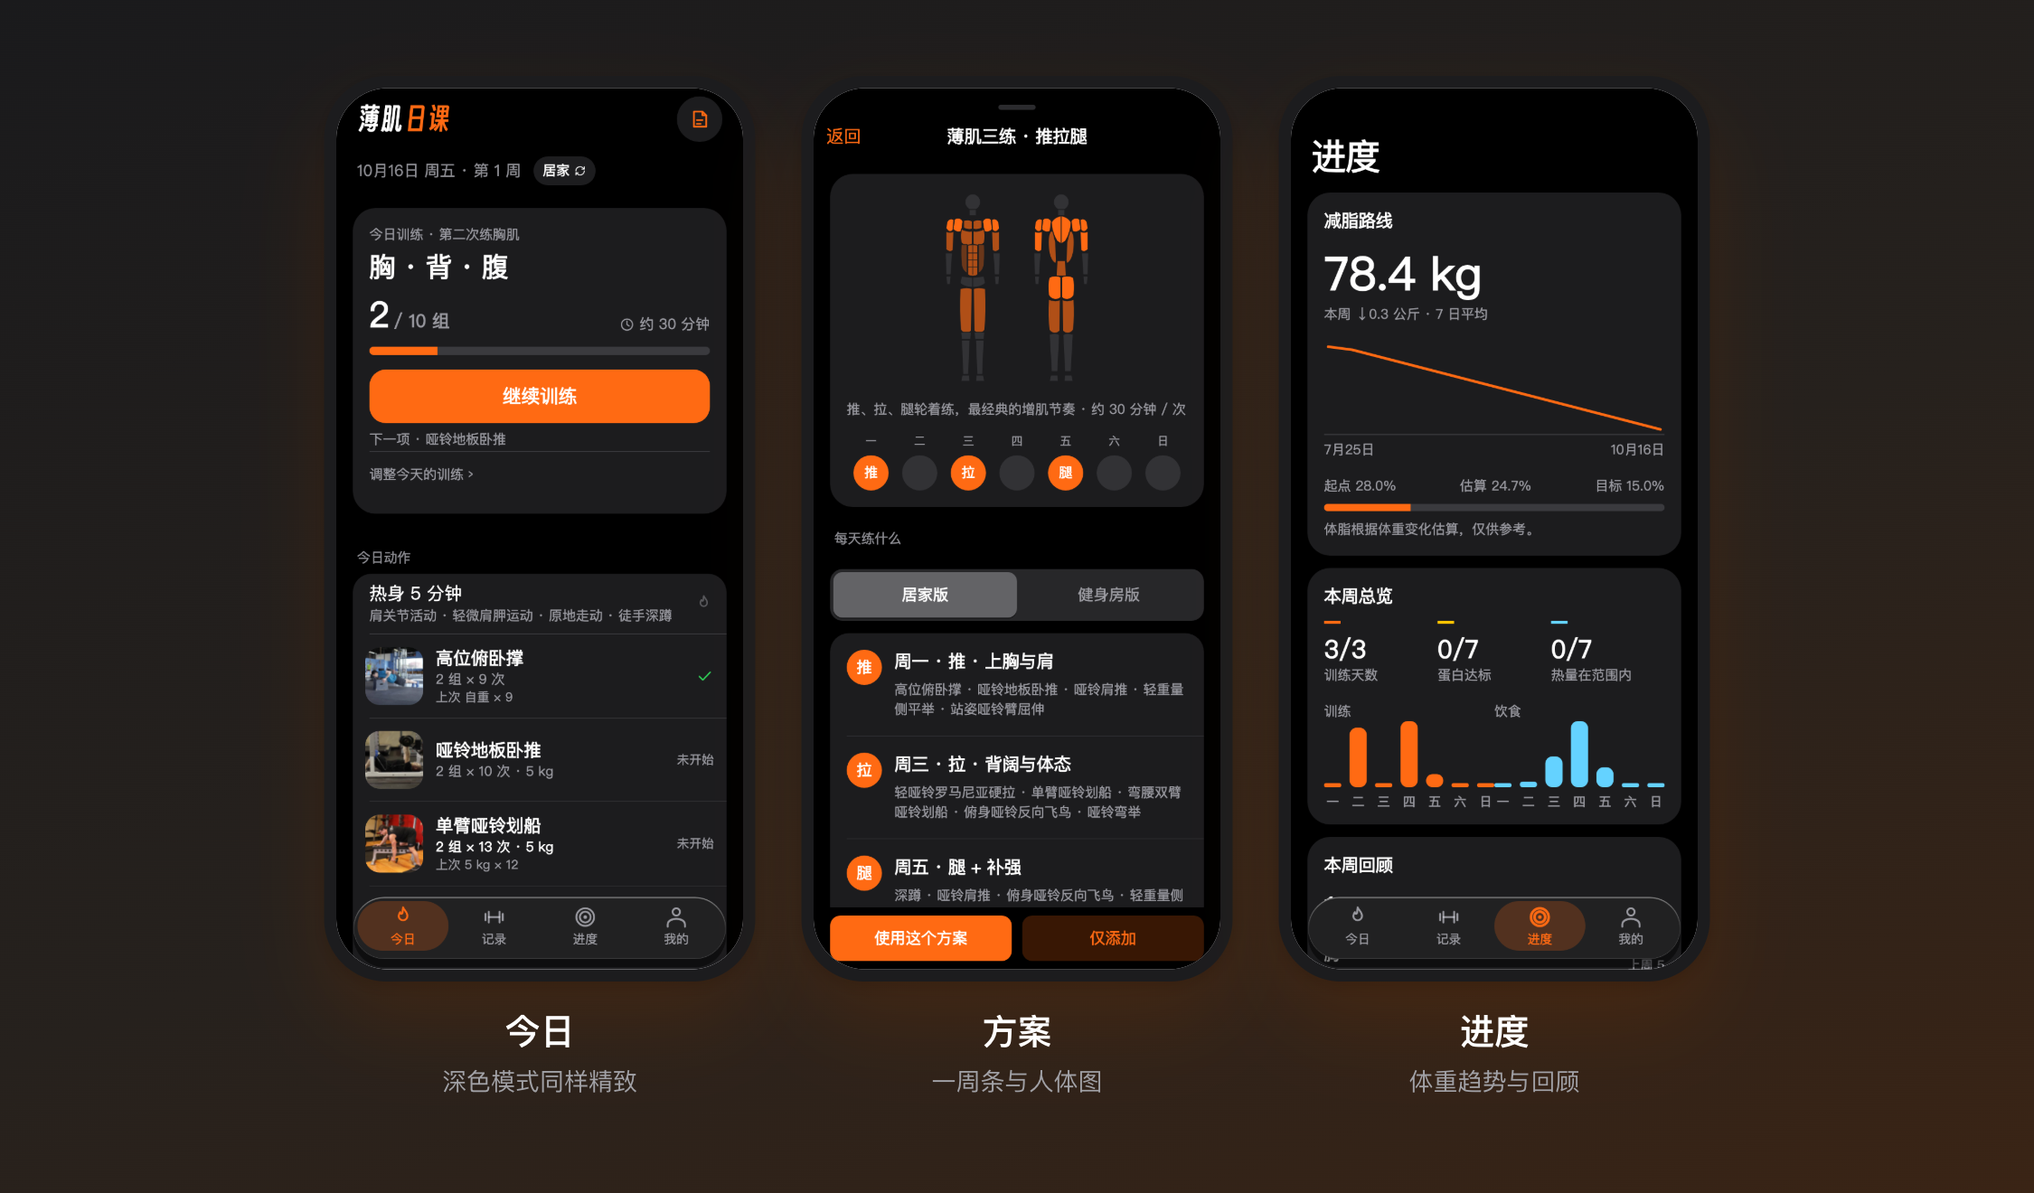
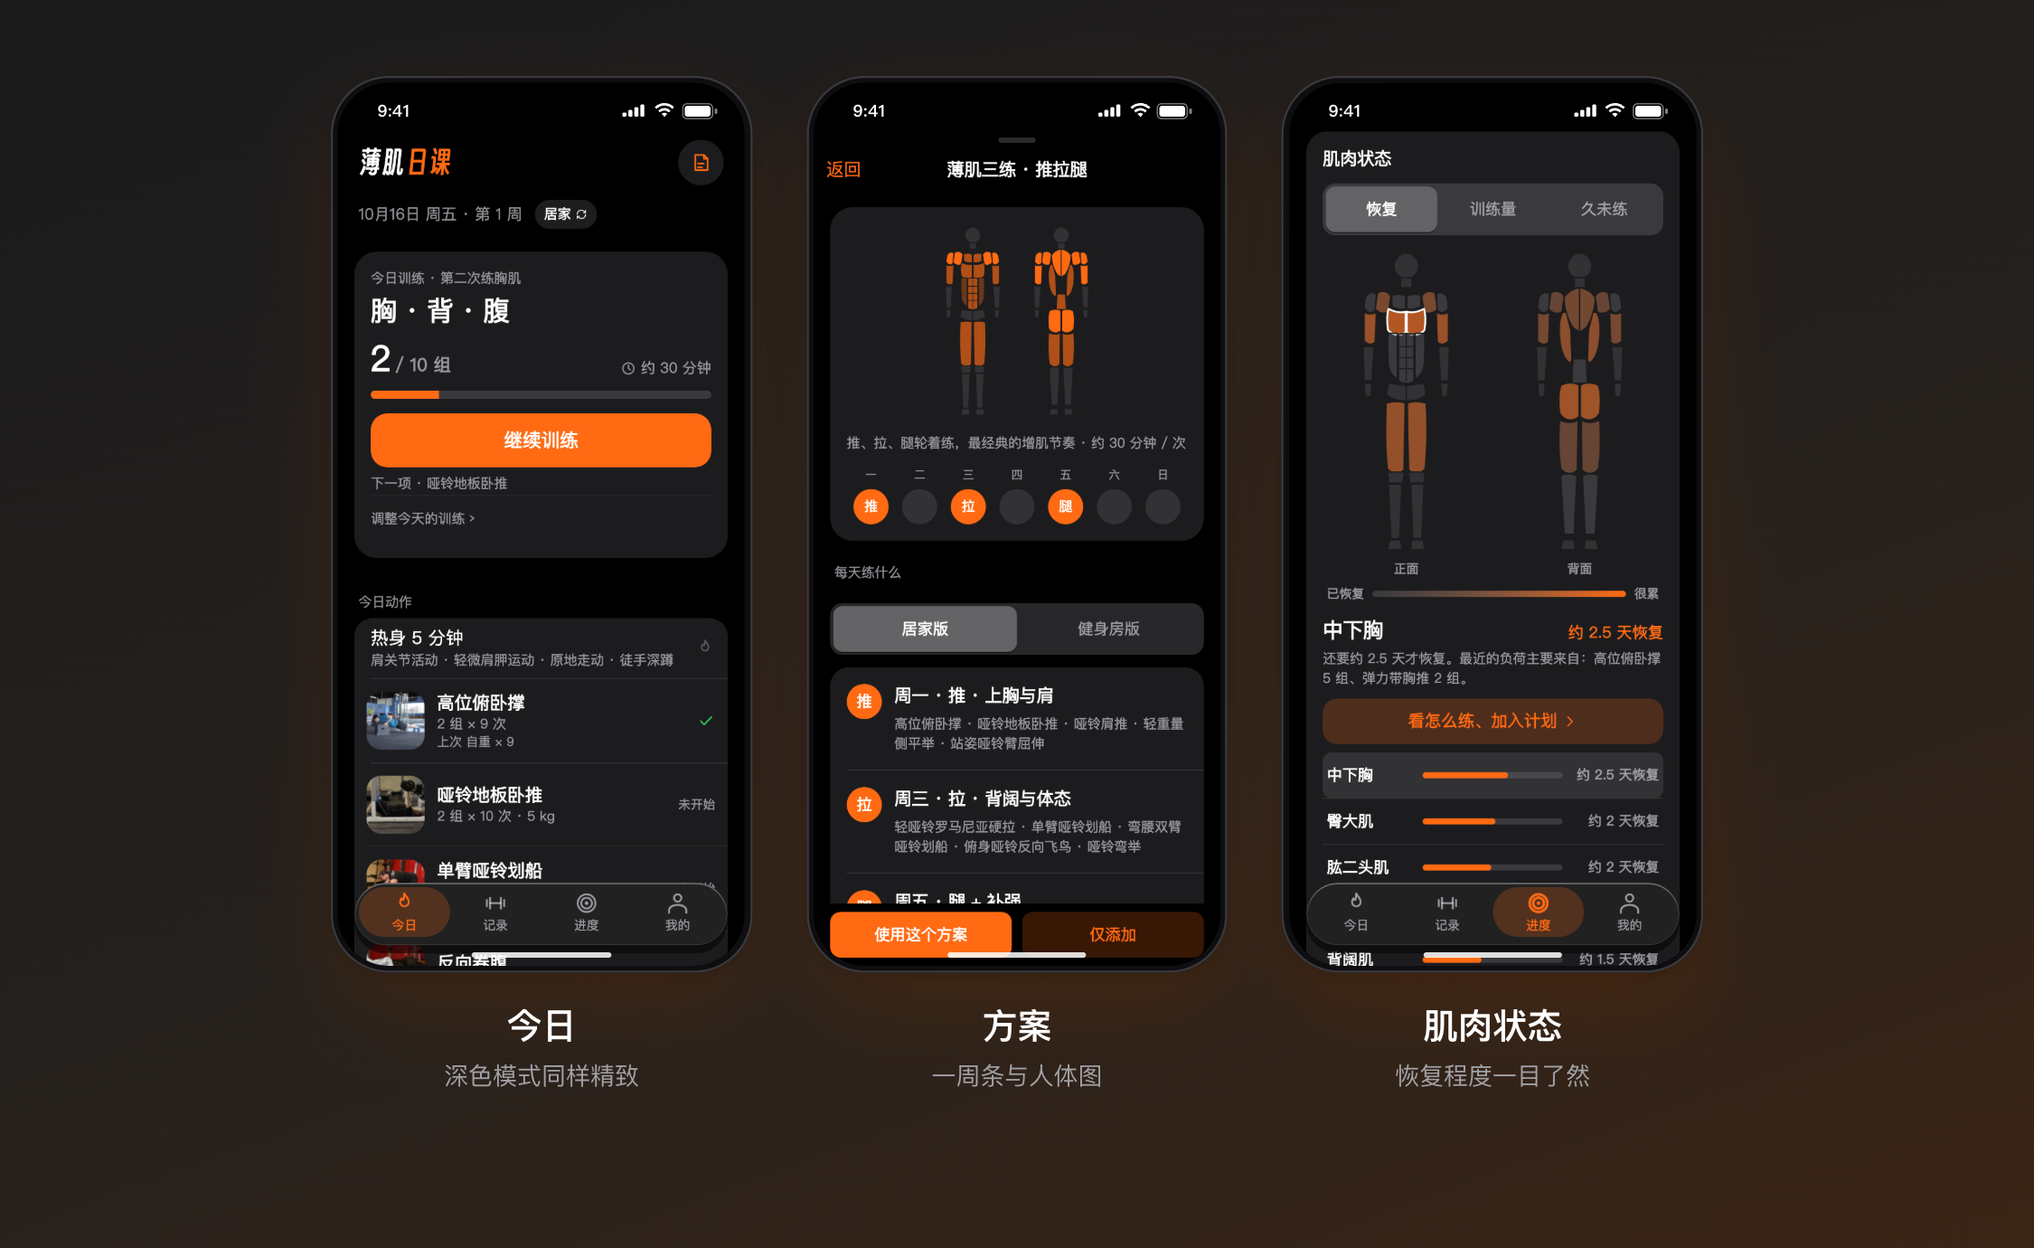
README 展示图：模拟真机安全区与状态栏，修复圆角裁切
- 测试框架新增 LEANDAILY_SAFE_AREA：出图时模拟顶部状态栏和底部手势条安全区
- 展示图用细边框 + 状态栏 + 底部横条，界面内容不再贴边被圆角裁掉；半屏弹层不再带被切开的灰条
- 新增进度页“肌肉状态”整页场景；字体改用苹方-简（单独抽出）避免缺字
- 记录重新出图的完整流程

diff --git a/tool/readme_shots/readme_shots_test.dart b/tool/readme_shots/readme_shots_test.dart
@@ -3,9 +3,12 @@
 //     flutter test tool/readme_shots/readme_shots_test.dart
 // 输出到 out/shots/readme-*.png，再由 tool/readme_shots/compose.mjs 排版成展示图。
 import 'dart:convert';
+import 'dart:io';
 
 import 'package:flutter/widgets.dart';
 import 'package:flutter_test/flutter_test.dart';
+
+import 'package:leandaily/ui/stats/stats_page.dart';
 
 import '../../test/support/harness.dart';
 import '../../test/today_sheets_test.dart' show loadExerciseImages;
@@ -39,9 +42,50 @@ String _body() {
   return jsonEncode({'v': 1, 'entries': entries});
 }
 
+// 肌肉卡依赖异步读取的人体图资源；同一进程里连续跑两个场景时第二个读不到，
+// 所以按配色分两次运行：README_SCHEME=light / dark（不设置则两种都跑）。
+final _only = Platform.environment['README_SCHEME'];
+Iterable<bool> get _schemes => [
+  if (_only != 'dark') false,
+  if (_only != 'light') true,
+];
+
 void main() {
   setUpAll(Harness.setUpAll);
-  for (final dark in [false, true]) {
+  for (final dark in _schemes) {
+    final scheme = dark ? 'dark' : 'light';
+    testWidgets('readme muscle $scheme', (tester) async {
+      final h = await Harness.pump(
+        tester,
+        dark: dark,
+        tab: 2,
+        size: const Size(393, 852),
+        seed: (n) {
+          n.docs['fw-profile-v1'] = jsonEncode(_profile());
+          n.docs['fw-body-v1'] = _body();
+        },
+      );
+      await tester.pumpAndSettle();
+      // 人体图路径是异步读资源文件的：给真实 IO 一点时间，肌肉卡才会出现。
+      await tester.runAsync(
+        () => Future<void>.delayed(const Duration(milliseconds: 300)),
+      );
+      await tester.pumpAndSettle();
+      // 卡片是惰性构建的：先滚到可见，再把标题对齐到屏幕上部。
+      for (var i = 0; i < 30 && find.text('肌肉状态').evaluate().isEmpty; i++) {
+        await tester.drag(find.byType(StatsPage), const Offset(0, -300));
+        await tester.pumpAndSettle();
+      }
+      await Scrollable.ensureVisible(
+        tester.element(find.text('肌肉状态').first),
+        alignment: 0.075,
+        duration: Duration.zero,
+      );
+      await tester.pumpAndSettle();
+      await h.shot(tester, 'readme-muscle-$scheme');
+    });
+  }
+  for (final dark in _schemes) {
     final scheme = dark ? 'dark' : 'light';
     testWidgets('readme today $scheme', (tester) async {
       final h = await Harness.pump(

diff --git a/test/support/harness.dart b/test/support/harness.dart
@@ -42,11 +42,19 @@ class Harness {
   }) async {
     tester.view.devicePixelRatio = 2;
     tester.view.physicalSize = size * 2;
+    // 出展示图时模拟真机的状态栏/手势条安全区：LEANDAILY_SAFE_AREA=1（顶 47dp、底 20dp）。
+    if (Platform.environment['LEANDAILY_SAFE_AREA'] == '1') {
+      const inset = FakeViewPadding(top: 94, bottom: 40);
+      tester.view.padding = inset;
+      tester.view.viewPadding = inset;
+    }
     tester.platformDispatcher.platformBrightnessTestValue = dark
         ? Brightness.dark
         : Brightness.light;
     addTearDown(() {
       tester.view.resetPhysicalSize();
+      tester.view.resetPadding();
+      tester.view.resetViewPadding();
       tester.view.resetDevicePixelRatio();
       tester.platformDispatcher.clearPlatformBrightnessTestValue();
     });

diff --git a/tool/readme_shots/compose.py b/tool/readme_shots/compose.py
@@ -1,28 +1,38 @@
 #!/usr/bin/env python3
-"""把 out/shots 里的真实界面截图排版成 README 展示图（手机边框 + 说明文字），并用 ffmpeg 合成动图。
+"""把 out/shots 里的真实界面截图排版成 README 展示图，并用 ffmpeg 合成动图。
 
-先运行 tool/readme_shots/readme_shots_test.dart 和全量测试生成截图，再运行本脚本：
+截图要带上真机的安全区（顶部状态栏、底部手势条），否则界面内容会贴着屏幕边缘、被圆角裁掉：
+    LEANDAILY_SAFE_AREA=1 LEANDAILY_TEST_FONT=out/fonts/PingFangSC-Regular.ttf TZ=Asia/Shanghai flutter test
+    for s in light dark; do README_SCHEME=$s LEANDAILY_SAFE_AREA=1 LEANDAILY_TEST_FONT=... TZ=Asia/Shanghai \\
+        flutter test tool/readme_shots/readme_shots_test.dart; done
     python3 tool/readme_shots/compose.py
-需要：Node + playwright-core 与 Google Chrome（排版截图，见 render.cjs）、ffmpeg（动图）。结果写入 docs/images/。
+（中文字体见 extract_pingfang_sc.py。）需要：Node + playwright-core 与 Google Chrome（render.cjs）、ffmpeg。
+结果写入 docs/images/。
 """
 import os
 import subprocess
-import sys
 from pathlib import Path
 
 ROOT = Path(__file__).resolve().parents[2]
 SHOTS = ROOT / 'out/shots'
 OUT = ROOT / 'docs/images'
+HTML = ROOT / 'out/readme-html'
 OUT.mkdir(parents=True, exist_ok=True)
+HTML.mkdir(parents=True, exist_ok=True)
 
 CSS = '''
 *{box-sizing:border-box;margin:0}
 body{font-family:-apple-system,"PingFang SC","Hiragino Sans GB",sans-serif;-webkit-font-smoothing:antialiased}
-.stage{display:flex;align-items:flex-start;justify-content:center;gap:34px}
-.item{display:flex;flex-direction:column;align-items:center;gap:18px}
-.phone{background:#1c1c1e;border-radius:46px;padding:9px;box-shadow:0 30px 60px rgba(120,50,0,.28),0 4px 10px rgba(0,0,0,.18)}
-.phone .scr{border-radius:38px;overflow:hidden;background:#f2f2f7}
-.phone img{display:block;width:100%}
+.stage{display:flex;align-items:flex-start;justify-content:center;gap:40px}
+.item{display:flex;flex-direction:column;align-items:center;gap:20px}
+.phone{background:#0e0e10;border-radius:calc(var(--k)*56px);padding:calc(var(--k)*7px);
+  box-shadow:0 28px 56px rgba(120,50,0,.26),0 4px 10px rgba(0,0,0,.16),inset 0 0 0 1.5px #3a3a3e}
+.scr{position:relative;overflow:hidden;border-radius:calc(var(--k)*50px);background:#000}
+.scr img{display:block;width:100%;height:100%}
+.sb{position:absolute;left:0;right:0;top:0;display:flex;justify-content:space-between;align-items:center;
+  font:600 calc(var(--k)*16px) -apple-system,"SF Pro Text","PingFang SC",sans-serif;letter-spacing:.2px}
+.sb .r{display:flex;align-items:center;gap:calc(var(--k)*6px)}
+.home{position:absolute;left:50%;transform:translateX(-50%);height:calc(var(--k)*5px);width:calc(var(--k)*134px);border-radius:9px}
 .cap{text-align:center}
 .cap b{display:block;font-size:26px;font-weight:700;color:#1d1d1f;letter-spacing:-.3px}
 .cap span{display:block;margin-top:6px;font-size:18px;color:#6e6e73;line-height:1.4}
@@ -30,68 +40,82 @@ body{font-family:-apple-system,"PingFang SC","Hiragino Sans GB",sans-serif;-webk
 '''
 
 
-def phone(img, width, crop=None, scale=1.0):
-    """crop=(宽高比) 时按手机屏幕比例裁掉多余的下半部分。"""
-    ratio = crop or (1704 / 786)
-    h = int(width * ratio)
-    return (f'<div class="phone" style="width:{width + 18}px"><div class="scr" style="height:{h}px">'
-            f'<img src="file://{SHOTS / img}" style="width:{width}px"></div></div>')
+def bar_svg(color):
+    signal = ''.join(f'<rect x="{i * 4.4}" y="{9 - h}" width="3" height="{h}" rx="1" fill="{color}"/>' for i, h in enumerate([3, 5, 7, 9]))
+    return (f'<svg width="18" height="10" viewBox="0 0 18 10">{signal}</svg>'
+            f'<svg width="16" height="11" viewBox="0 0 16 11"><path d="M8 10.2 5.9 8a3 3 0 0 1 4.2 0L8 10.2Z" fill="{color}"/>'
+            f'<path d="M3.4 5.6a6.4 6.4 0 0 1 9.2 0l-1.3 1.3a4.6 4.6 0 0 0-6.6 0L3.4 5.6Z" fill="{color}"/>'
+            f'<path d="M.8 3a10 10 0 0 1 14.4 0l-1.3 1.3a8.2 8.2 0 0 0-11.8 0L.8 3Z" fill="{color}"/></svg>'
+            f'<svg width="27" height="12" viewBox="0 0 27 12"><rect x=".5" y=".5" width="22" height="11" rx="3.2" fill="none" stroke="{color}" opacity=".45"/>'
+            f'<rect x="2" y="2" width="19" height="8" rx="2" fill="{color}"/><rect x="24" y="4" width="2" height="4" rx="1" fill="{color}" opacity=".5"/></svg>')
 
 
-def item(img, title, sub, width=300, crop=None, offset=0):
-    return (f'<div class="item" style="margin-top:{offset}px">{phone(img, width, crop)}'
+def phone(img, width, bar, mask=None):
+    """bar: 'dark' 深色字（亮色界面）/ 'light' 白字（暗色界面或带压暗背景的半屏弹层）"""
+    k = width / 393
+    h = width * 852 / 393
+    color = '#000' if bar == 'dark' else '#fff'
+    return (f'<div class="phone" style="--k:{k:.4f};width:{width + 14 * k:.1f}px"><div class="scr" style="width:{width}px;height:{h:.1f}px">'
+            f'<img src="file://{SHOTS / img}">'
+            f'<div class="sb" style="{f"background:{mask};" if mask else ""}height:{47 * k:.1f}px;padding:{6 * k:.1f}px {26 * k:.1f}px 0 {38 * k:.1f}px;color:{color}"><span>9:41</span>'
+            f'<span class="r">{bar_svg(color)}</span></div>'
+            f'<div class="home" style="bottom:{8 * k:.1f}px;background:{color};opacity:.85"></div></div></div>')
+
+
+def item(img, title, sub, width=300, bar='dark', mask=None):
+    return (f'<div class="item">{phone(img, width, bar, mask)}'
             f'<div class="cap"><b>{title}</b><span>{sub}</span></div></div>')
 
 
 def render(name, body, w, h, bg, dark=False, transparent=False):
     pad = '8px 20px' if transparent else '56px 40px'
-    html = f'<!doctype html><meta charset="utf-8"><style>{CSS}body{{width:{w}px;height:{h}px;background:{bg};padding:{pad}}}</style><body class="{"dark" if dark else ""}"><div class="stage">{body}</div></body>'
-    html_dir = ROOT / 'out/readme-html'
-    html_dir.mkdir(parents=True, exist_ok=True)
-    path = html_dir / (Path(name).stem + '.html')
+    html = (f'<!doctype html><meta charset="utf-8"><style>{CSS}body{{width:{w}px;height:{h}px;background:{bg};padding:{pad}}}</style>'
+            f'<body class="{"dark" if dark else ""}"><div class="stage">{body}</div></body>')
+    path = HTML / (Path(name).stem + '.html')
     path.write_text(html)
     out = OUT / name
-    subprocess.run(['node', str(ROOT / 'tool/readme_shots/render.cjs'), str(path), str(out), str(w), str(h)] + (['transparent'] if transparent else []), check=True)
+    subprocess.run(['node', str(ROOT / 'tool/readme_shots/render.cjs'), str(path), str(out), str(w), str(h)]
+                   + (['transparent'] if transparent else []), check=True)
     print('wrote', out.relative_to(ROOT))
 
 
 LIGHT_BG = 'linear-gradient(160deg,#fff8f2 0%,#ffe9d9 55%,#ffd8bf 100%)'
 DARK_BG = 'linear-gradient(160deg,#1a1a1c 0%,#26211d 55%,#3a2415 100%)'
 
-# 1 主图：今日 / 训练 / 进度
+# 1 主图
 render('hero.png',
-       item('r-train-set-light.png', '一组一次点击', '数字沿用上一组，自动休息', 290, offset=70)
-       + item('readme-today-light.png', '打开就是今天的计划', '一个大按钮，动作带示范图', 330)
-       + item('muscle-fatigue-light.png', '看得见的肌肉恢复', '练完的肌肉会染色，练得越狠颜色越深', 290, crop=1.95, offset=70),
-       1500, 940, LIGHT_BG)
+       item('r-train-set-light.png', '一组一次点击', '数字沿用上一组，自动休息', 280)
+       + item('readme-today-light.png', '打开就是今天的计划', '一个大按钮，动作带示范图', 320)
+       + item('readme-muscle-light.png', '看得见的肌肉恢复', '练完的肌肉会染色，越狠颜色越深', 280, mask='#f2f2f7'),
+       1500, 920, LIGHT_BG)
 
-# 2 新手选方案
+# 2 新手选方案（半屏弹层顶部是压暗的背景页，状态栏用白字）
 render('feature-plan.png',
        item('r-plan-onb-light.png', '先问几句，再推荐', '每周几天、在哪练、练过没有', 300)
-       + item('r-plan-browser-light.png', '一周条一眼看懂节奏', '圆点里的字就是这天练什么', 300)
-       + item('r-plan-preview-light.png', '人体图看练哪里', '点进去看每天的动作和示范', 300),
-       1500, 880, LIGHT_BG)
+       + item('r-plan-browser-light.png', '一周条一眼看懂节奏', '圆点里的字就是这天练什么', 300, bar='light')
+       + item('r-plan-preview-light.png', '人体图看练哪里', '点进去看每天的动作和示范', 300, bar='light'),
+       1500, 920, LIGHT_BG)
 
 # 3 进度
 render('feature-progress.png',
-       item('r-progress-light.png', '体重趋势，不看单日波动', '7 日均线 + 每周回顾与建议', 300)
-       + item('muscle-fatigue-light.png', '肌肉状态', '恢复 / 训练量 / 久未练 三种视角', 300, crop=1.95)
+       item('r-progress-light.png', '体重趋势，不看单日波动', '7 日均线 + 每周回顾与建议', 300, mask='#f2f2f7')
+       + item('readme-muscle-light.png', '肌肉状态', '恢复 / 训练量 / 久未练 三种视角', 300, mask='#f2f2f7')
        + item('r-train-summary-light.png', '练完有小结', '组数、训练量、用时和新纪录', 300),
-       1500, 880, LIGHT_BG)
+       1500, 920, LIGHT_BG)
 
 # 4 训练模式
 render('feature-training.png',
        item('r-train-set-light.png', '示范图自己会动', '一次一个动作，左右滑动切换', 300)
        + item('r-train-feedback-bar-light.png', '感受随时可补', '组后收成一行小条，不打断下一组', 300)
        + item('r-train-summary-light.png', '训练小结', '本次组数 / 训练量 / 用时', 300),
-       1500, 880, LIGHT_BG)
+       1500, 920, LIGHT_BG)
 
 # 5 暗色
 render('feature-dark.png',
-       item('readme-today-dark.png', '今日', '深色模式同样精致', 300)
-       + item('r-plan-preview-dark.png', '方案', '一周条与人体图', 300)
-       + item('r-progress-dark.png', '进度', '体重趋势与回顾', 300),
-       1500, 880, DARK_BG, dark=True)
+       item('readme-today-dark.png', '今日', '深色模式同样精致', 300, bar='light')
+       + item('r-plan-preview-dark.png', '方案', '一周条与人体图', 300, bar='light')
+       + item('readme-muscle-dark.png', '肌肉状态', '恢复程度一目了然', 300, bar='light', mask='#000'),
+       1500, 920, DARK_BG, dark=True)
 
 
 # 6 动图
@@ -107,35 +131,34 @@ def gif_from_images(images, out, width, hold=1.8, fade=0.4):
     parts = [f'[{i}:v]scale={width}:-2:flags=lanczos,format=yuv420p,setsar=1[v{i}]' for i in range(n)]
     last = 'v0'
     for i in range(1, n):
-        off = round(i * hold, 2)
-        parts.append(f'[{last}][v{i}]xfade=transition=fade:duration={fade}:offset={off}[x{i}]')
+        parts.append(f'[{last}][v{i}]xfade=transition=fade:duration={fade}:offset={round(i * hold, 2)}[x{i}]')
         last = f'x{i}'
     parts.append(f'[{last}]split[a][b];[a]palettegen=stats_mode=diff[p];[b][p]paletteuse=dither=bayer:bayer_scale=4[g]')
-    cmd += ['-filter_complex', ';'.join(parts), '-map', '[g]', '-r', '15', str(out)]
-    run(*cmd)
+    run(*cmd, '-filter_complex', ';'.join(parts), '-map', '[g]', '-r', '15', str(out))
     print('wrote', Path(out).relative_to(ROOT))
 
 
-gif_from_images([SHOTS / n for n in ['readme-today-light.png', 'r-train-set-light.png', 'r-train-feedback-bar-light.png', 'r-train-summary-light.png']],
-                OUT / 'flow.gif', 300)
+# 流程动图：每一帧都是带状态栏的完整手机画面（不含说明文字）
+flow = []
+for i, img in enumerate(['readme-today-light.png', 'r-train-set-light.png', 'r-train-feedback-bar-light.png', 'r-train-summary-light.png']):
+    render(f'_flow{i}.png', phone(img, 320, 'dark'), 360, 720, '#ffffff')
+    flow.append(OUT / f'_flow{i}.png')
+gif_from_images(flow, OUT / 'flow.gif', 300)
+for f in flow:
+    f.unlink()
 
 # 动作示范动图：两帧交替
-for key, name in [('floor-press', 'demo-floor-press.gif')]:
-    frames = [ROOT / f'assets/exercises/{key}/{i}.jpg' for i in (0, 1)]
-    cmd = ['ffmpeg', '-y']
-    for f in frames * 4:
-        cmd += ['-loop', '1', '-t', '0.9', '-i', str(f)]
-    # 简单交替：每帧 0.9 秒，共 8 段
-    inputs = ''.join(f'[{i}:v]scale=360:360:force_original_aspect_ratio=increase,crop=360:360,setsar=1[s{i}];' for i in range(8))
-    concat = ''.join(f'[s{i}]' for i in range(8)) + 'concat=n=8:v=1:a=0[c];[c]split[a][b];[a]palettegen[p];[b][p]paletteuse[g]'
-    cmd += ['-filter_complex', inputs + concat, '-map', '[g]', '-r', '10', str(OUT / name)]
-    run(*cmd)
-    print('wrote', (OUT / name).relative_to(ROOT))
+frames = [ROOT / f'assets/exercises/floor-press/{i}.jpg' for i in (0, 1)]
+cmd = ['ffmpeg', '-y']
+for f in frames * 4:
+    cmd += ['-loop', '1', '-t', '0.9', '-i', str(f)]
+inputs = ''.join(f'[{i}:v]scale=360:360:force_original_aspect_ratio=increase,crop=360:360,setsar=1[s{i}];' for i in range(8))
+concat = ''.join(f'[s{i}]' for i in range(8)) + 'concat=n=8:v=1:a=0[c];[c]split[a][b];[a]palettegen[p];[b][p]paletteuse[g]'
+run(*cmd, '-filter_complex', inputs + concat, '-map', '[g]', '-r', '10', str(OUT / 'demo-floor-press.gif'))
+print('wrote docs/images/demo-floor-press.gif')
 
-
-# 7 字标（透明底；README 顶部用 <picture> 区分亮/暗主题）
-FONT_FACE = f'@font-face{{font-family:Wordmark;src:url(file://{ROOT}/assets/fonts/SmileySans-Wordmark.ttf)}}'
-CSS = CSS + FONT_FACE
+# 字标（透明底；README 顶部用 <picture> 区分亮/暗主题）
+CSS += f'@font-face{{font-family:Wordmark;src:url(file://{ROOT}/assets/fonts/SmileySans-Wordmark.ttf)}}'
 for fname, ink in [('wordmark.png', '#1d1d1f'), ('wordmark-dark.png', '#ffffff')]:
     html = (f'<div style="font-family:Wordmark;font-size:140px;letter-spacing:6px;color:{ink};text-align:center;line-height:1.25">'
             '薄肌<span style="color:#ff6a13">日课</span></div>')

diff --git a/CONTRIBUTING.md b/CONTRIBUTING.md
@@ -19,7 +19,16 @@ bash tool/lint_tokens.sh
 TZ=Asia/Shanghai flutter test     # 时区必须固定，否则与日期相关的测试会失败
 ```
 
-截图测试会把图片写到 `out/shots/`。想让截图里的中文字形更接近真机，可以在 macOS 上先 `python3 tool/readme_shots/extract_pingfang_sc.py`，再设置 `LEANDAILY_TEST_FONT=out/fonts/PingFangSC-Regular.ttf`。
+截图测试会把图片写到 `out/shots/`。README 里的展示图用下面的方法重新生成（macOS）：
+
+```bash
+python3 tool/readme_shots/extract_pingfang_sc.py        # 抽出苹方-简，截图字形才和真机一致
+export LEANDAILY_SAFE_AREA=1                            # 模拟状态栏和手势条的安全区，界面才不会贴边
+export LEANDAILY_TEST_FONT="$PWD/out/fonts/PingFangSC-Regular.ttf" TZ=Asia/Shanghai
+flutter test                                            # 部分对位置敏感的测试在安全区下会失败，不影响出图
+for s in light dark; do README_SCHEME=$s flutter test tool/readme_shots/readme_shots_test.dart; done
+python3 tool/readme_shots/compose.py                    # 需要 Node + playwright-core、Chrome、ffmpeg
+```
 
 ## 代码约定
 
